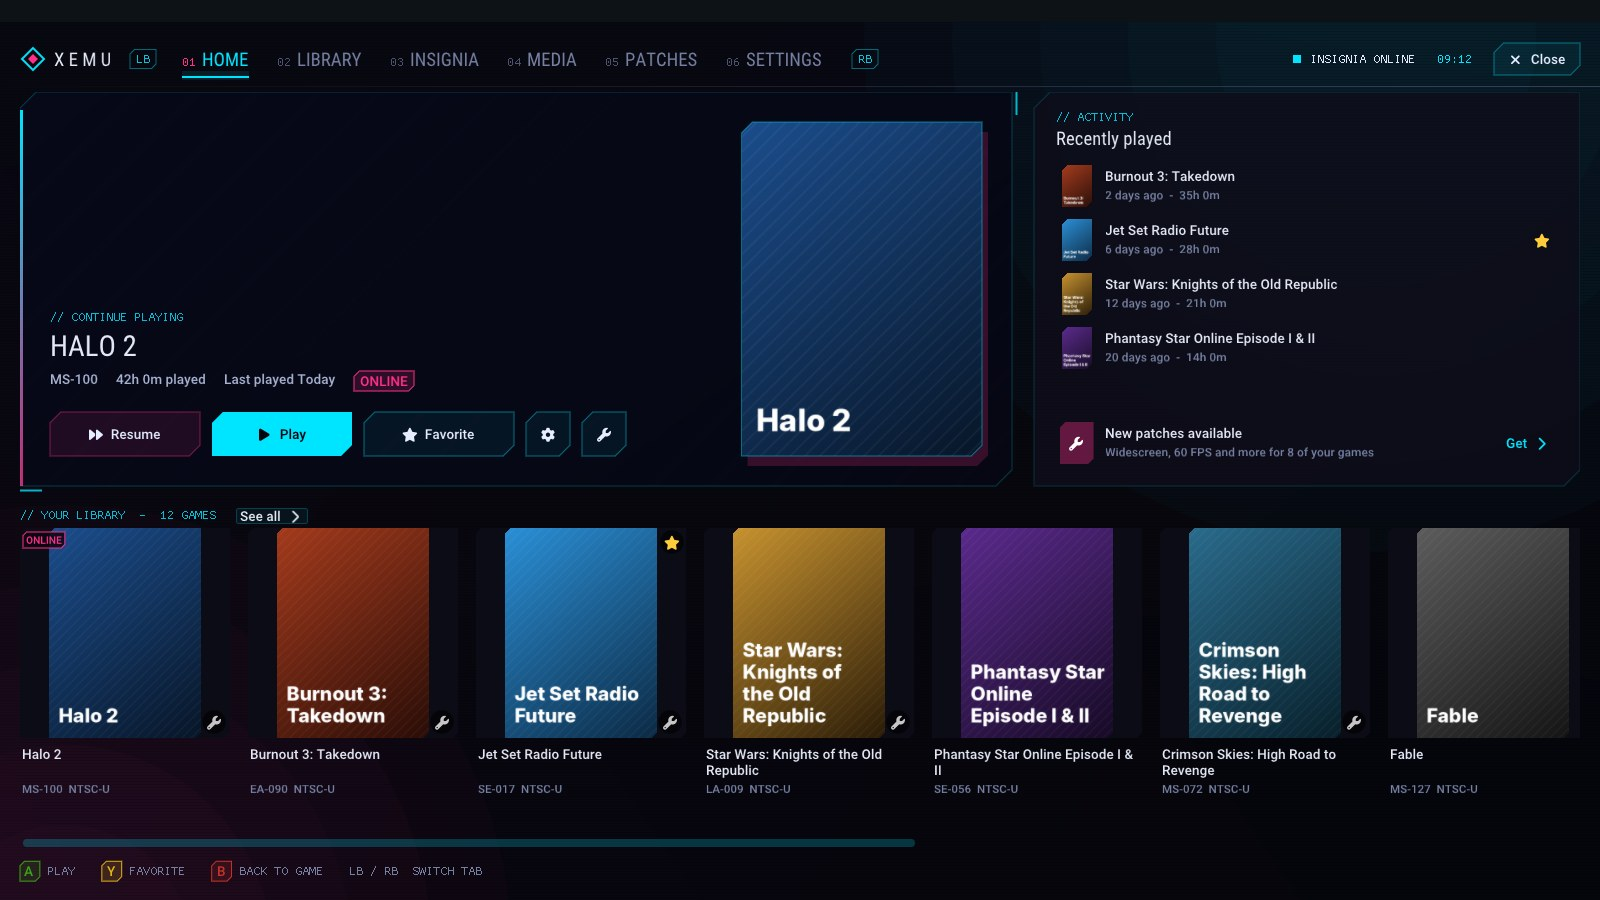
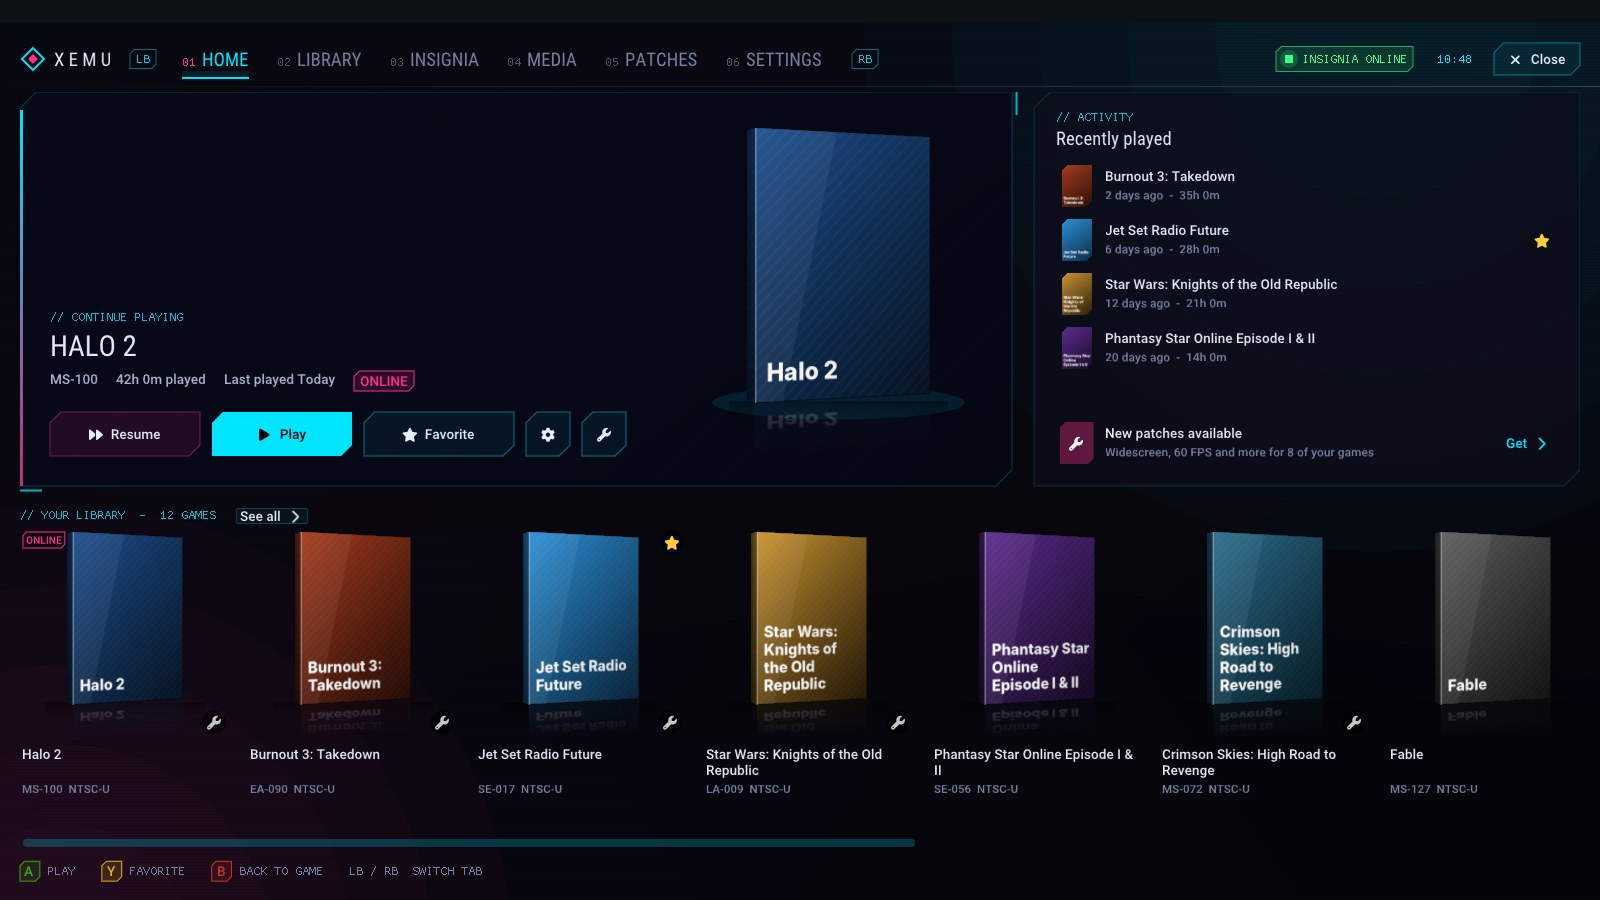
README: v1.5 3D covers and new Home screenshot
Claude-Session: https://claude.ai/code/session_019Gr5W4qmmyCDZGv1HdNHkG

diff --git a/README.md b/README.md
@@ -35,6 +35,11 @@ shared.
   the game you're playing, with its cover, title ID, play time and an Insignia
   badge for online-capable games. Turn it off in Settings > General > Discord
   status. Requires the Discord app running on the same PC.
+- **New in v1.5: 3D game cases.** Covers on the Home screen stand as 3D game
+  cases with a spine and a reflection, made from your existing covers. Use
+  your own 3D box art by saving it as `covers\<title ID>-3d.png`, or switch
+  back with Settings > Home screen covers. The Insignia status in the top bar
+  is now color-coded (green, amber or red).
 - **New in v1.4: motion.** The dashboard animates: flowing light ribbons, a
   slowly turning wireframe orb and drifting specks in the background (plus a
   grid floor in Neon), content that sweeps in when you switch tabs, a tab
